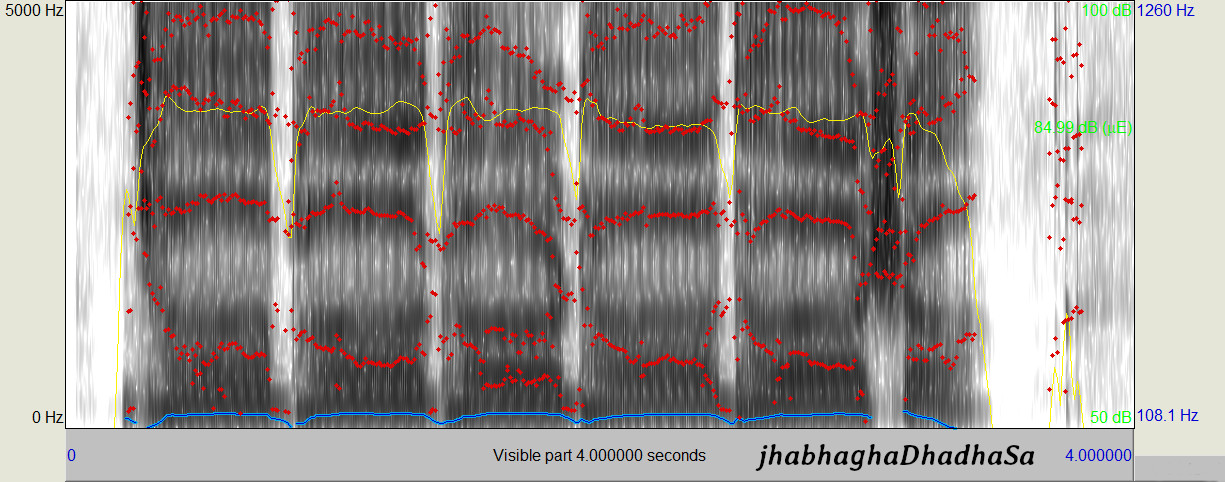
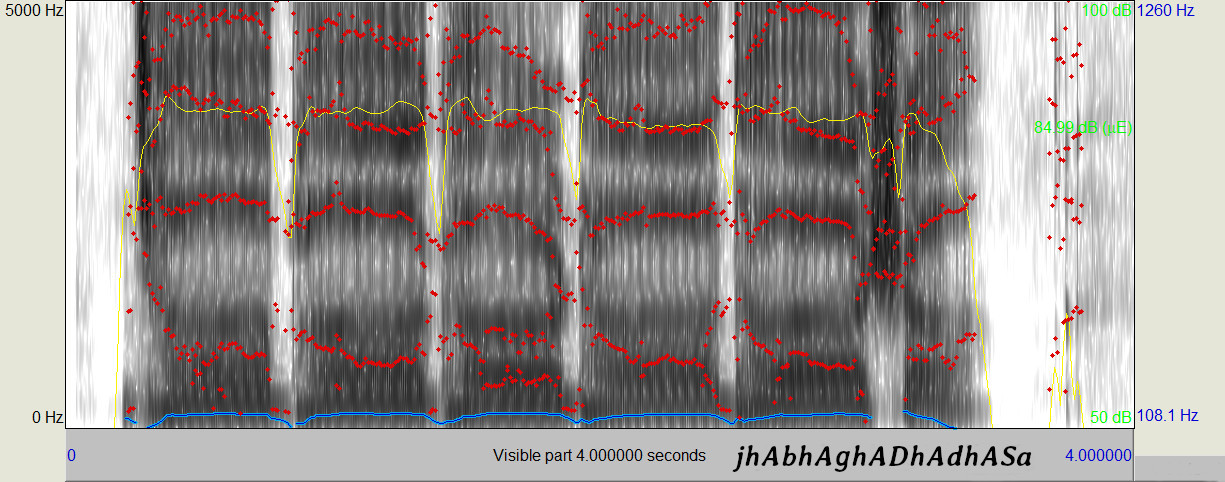
dadhadhadhadhahdadh

Changed region(s): [[0.5894, 0.9025, 0.8686, 0.9959]]

diff --git a/ziva/jhay.html b/ziva/jhay.html
@@ -4,7 +4,7 @@
 <meta charset="UTF-8">
 <meta name="viewport" content="width=device-width, initial-scale=1.0">
 <meta http-equiv="X-UA-Compatible" content="ie=edge">
-	<title> ziva </title>
+	<title>jhay</title>
     <style> body{
         font-family: sans-serif; font-size: 24px;
         text-align: center;
@@ -37,11 +37,11 @@
         </p>
         
         
-        <h2>jhabhaghaDhadhaSa</h2>
+        <h2>jhAbhAghADhAdhASa</h2>
         <p>
              <audio controls style="width: 1000px">
-	<source src="jhAbhAghADhadhASa.mp3" type="audio/ogg">
-	<source src="jhAbhAghADhadhASa.mp3" type="audio/mpeg">
+	<source src="jhAbhAghADhAdhASa.mp3" type="audio/ogg">
+	<source src="jhAbhAghADhAdhASa.mp3" type="audio/mpeg">
 	Your browser does not support the audio element.
 </audio> <br>
 <img src="jhabhaghaDhadhaSa.jpg" alt="" width="1000px" height="400px">
